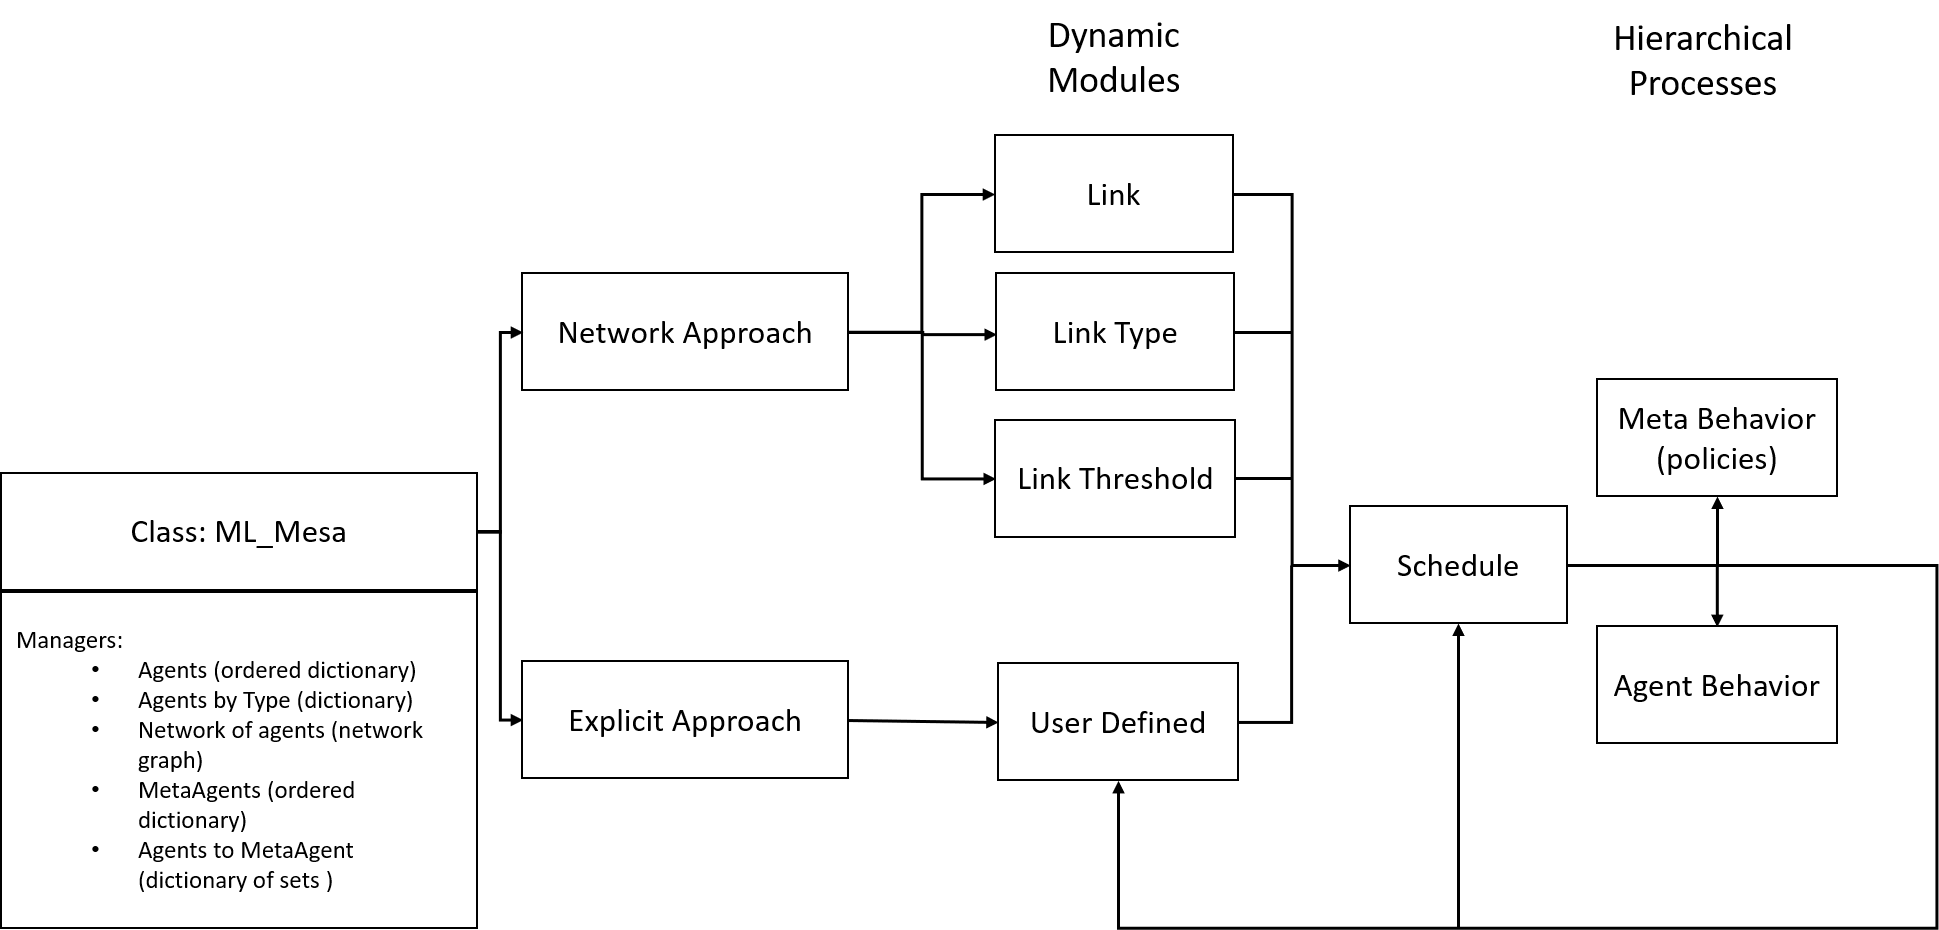
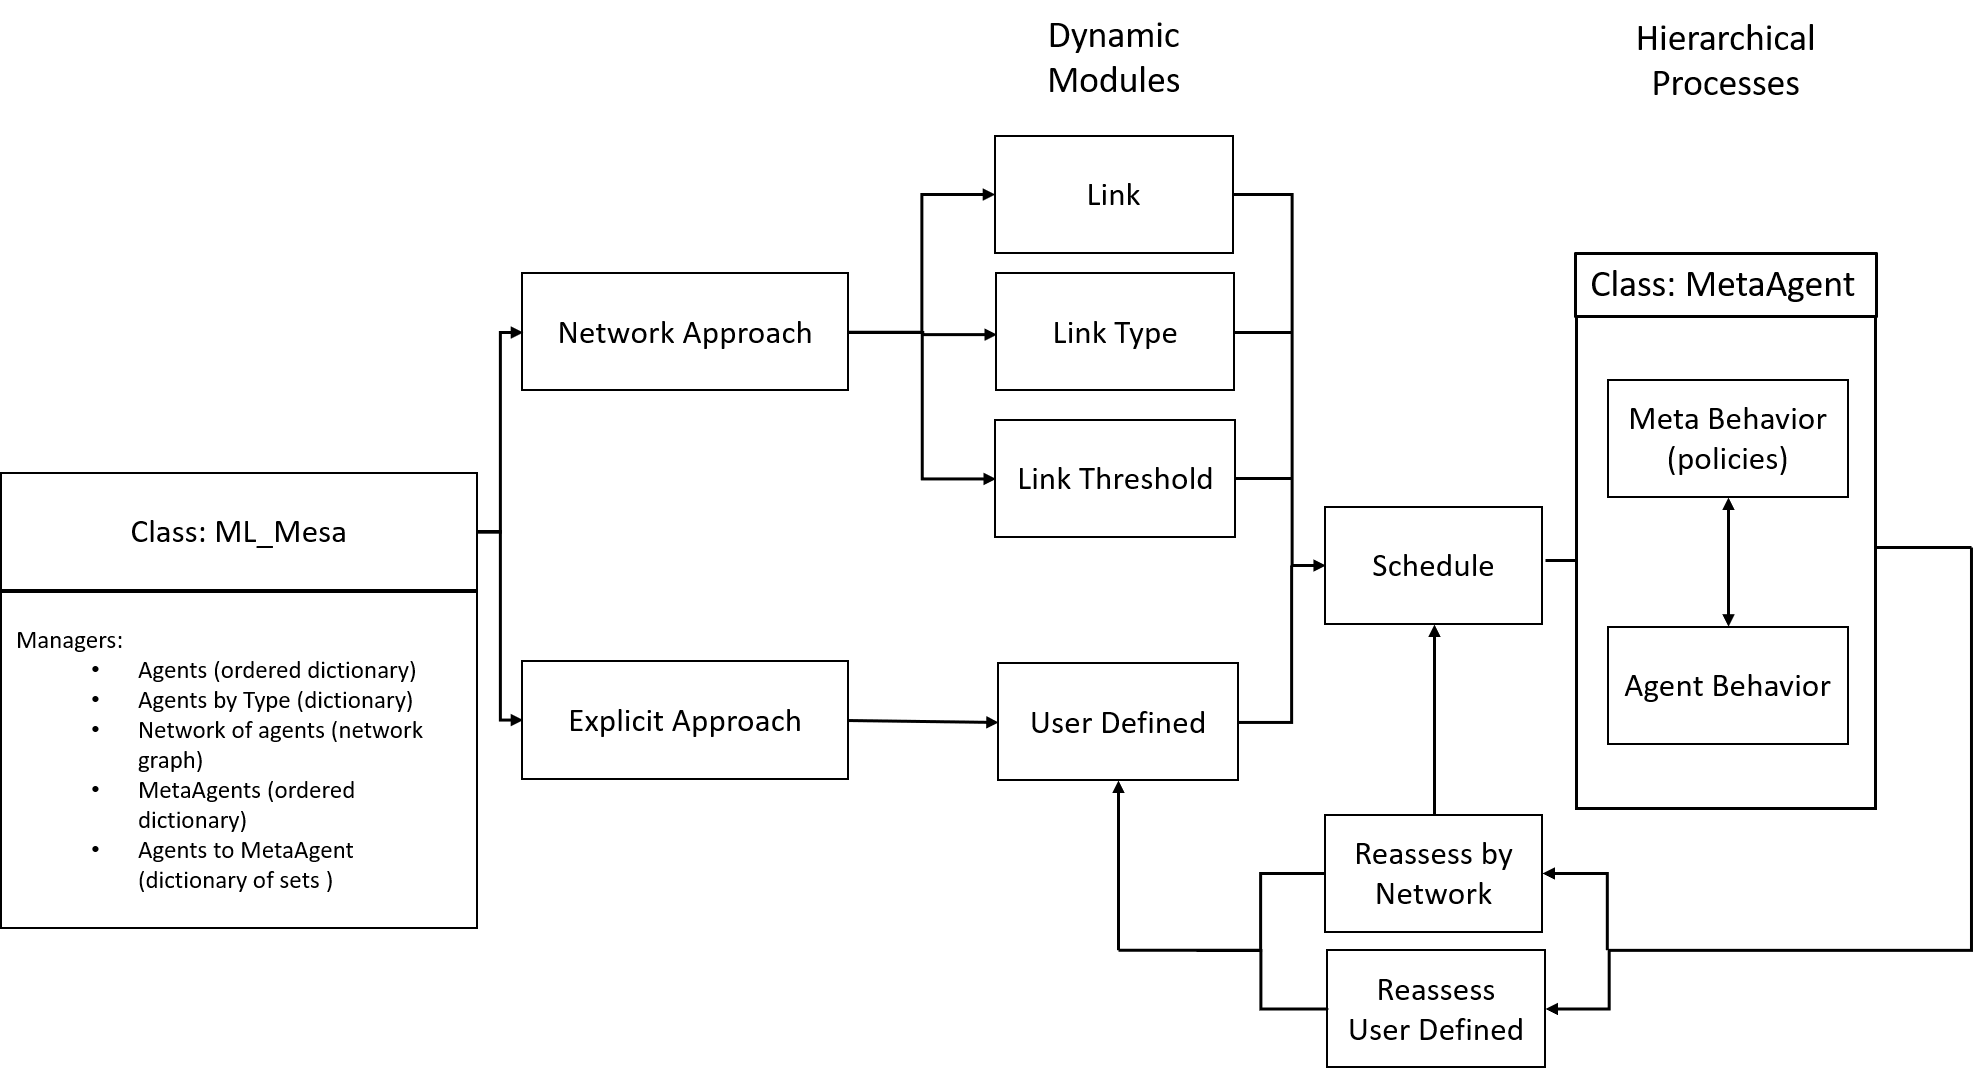
readme update

diff --git a/README.md b/README.md
@@ -1,57 +1,105 @@
 # Multi-Level Mesa
 
-Multi-Level (ML) Mesa is a library which supports Python's Agent Based Modelling Library Mesa. ML Mesa's views complex systems as adaptive networks and uses a network graph structure to allow dynamic management of agent modules (groups) and model schedules.
+Multi-Level (ML) Mesa is a library which supports Python's Agent Based Modeling Library Mesa. ML Mesa's views complex systems as adaptive networks and uses a network graph structure to allow dynamic management of agent modules (groups) and model schedules.
 
-ML Mesa has three main components. First, a collection of managers which tracks the agents, the modules of agents (meta-agents), the network of agents, and agents who belong to an existing meta-agent, and the schedule. Second, a series of functions which provides the user different options to form meta-agents or dissolve them. Third, a meta-agent class which allows for the inclusion of different meta-agent policies, manages the behavior and status of the meta_agent, and implcitily produces hierarchies within the complex system. (Figure 1)
+ML Mesa has three main components. First, a collection of managers which tracks the agents, the modules of agents (meta-agents), the network of agents, and agents who belong to an existing meta-agent, and the schedule. Second, a series of functions which provides the user different options to form meta-agents or dissolve them. Third, a meta-agent class which allows for the inclusion of different meta-agent policies, manages the behavior and status of the meta_agent, and implicitly produces hierarchies within the complex system. (Figure 1)
 
-!(ML Mesa Schematic)[https://github.com/tpike3/ml_mesa/blob/master/ml_mesa/picture/ML-Mesa%20Schematic.png]
+![ML Mesa Schematic](https://github.com/tpike3/ml_mesa/blob/master/ml_mesa/picture/ML-Mesa%20Schematic.png)
 **Figure 1**
-
-### Creating an ML Mesa Instance and the ML Mesa Managers
-
-Creating an instance of ML Mesa requires one parameter, and initiates one attribute and six managers. The one parameter is min_for_meta, which tells ML_Mesa the minimum number of agents which must be in a meta-agent. The min_for_meta parameter has a default setting of 2. The one attribute of ML Mesa is id_counter, which allows for unique_ids to be generated for meta-agents if the user does not supply any. The six managers are (1) ML_Mesa.\_agents which is an ordered dictionary (a hashtable consisting of a key:value pair) that holds every agent added to the instance. This manager is critical to ensure the most granualar possible of agents. (2) ML_Mesa.net is a instance of a NewtorkX graph. This feature provides the critical strcuture for tracking and managing agent and metaagents. (3) ML_Mesa.agents_by_type uses a dictionary of dictionaries to also track agents by type. This feature allows for faster reference of specific types of agents when manipulating meta-agents or schedules. (4) ML_Mesa.schedule replaces the typical Mesa schedule and is an ordered dictionary which manages the agents and when they execute a step function. (5) ML_Mesa.metas is an ordered dictionary and tracks the meta-agents within the model performing the same function of tracking meta-agents as the agents ordered dictionary. (6) ML_Mesa.reverse_meta is a dictionary of sets. The key is agent identification and the set is meta-agents to which the agent belongs. This structre is necessary to ensure duplicate meta-agents are not created or that an agent should be added to an exisitng meta-agent instead of creating a new one. The use of sets also helps expedite computation by using set operations to evaluate if a meta-agent agent should be formed or agents added to an existing meta-agent. 
-
-### The ML Mesa Functions
-
-As shown in figure 1, ML Mesa has two approaches for producing a multi-level ABM, an explcit approach and a network approach. Underneath these two approaches, ML Mesa turns the desired agents into a bilateral link list which form the meta-agents. Each input of agents if transformed into a network edge which forms the meta_agent or adds agents to the meta-agent. The bilateral link list prevents each meta-agent from being fully connected so a diversity network strcutures can exist both within the whole model and within the meta-agents. 
-
-The explicit approach takes a user defined process which generates a list of agents. As not every network is a fully connected network the user defined function looks at the list from a single agent perspective. The user identifies an agent or group of agents (the default is all agents in the ML_Mesa.\_agents dictionary) and then stipulates an evaluation process. From this process, a list of agents who meet the criteria is generated, which ML Mesa then links to the initial agent. As dictionaries are typically unordered and cannot be manipulated during iteration a *yield* versus the more common *return* function is necessary to pass the list of agents to the function. The function then creates a bilateral link list which in turn forms a meta-agent. 
-
-The network approach uses the network graph    
-
-## Uses
-
- 
 
 ## Requirements
 
- 
+ML Mesa requires
+
+    Mesa>=0.8.4
+    NetworkX>=2.2  
 
 ## Installation 
 
-## Implementation
+    pip install ml_mesa
 
- 
+### Creating an ML Mesa Instance and the ML Mesa Managers
 
-## Required Parameters 
+Creating an instance of ML Mesa requires no parameters, and initiates one attribute and six managers. The class has one keyword parameter, ML_Mesa.min_for_meta, which tells ML_Mesa the minimum number of agents which must be in a meta-agent. The min_for_meta parameter has a default setting of 2. The one attribute of ML Mesa is id_counter, which allows for unique_ids to be generated for meta-agents. The six managers are:
+1. ML_Mesa.\_agents which is an ordered dictionary (a hash-table consisting of a key:value pair) that holds every agent added to the instance. This manager is critical to maintain the most granular dictionary possible of all agents.
+2. ML_Mesa.net is a instance of a NewtorkX graph. This feature provides the critical structure for tracking and managing agent and meta-agents.
+3. ML_Mesa.agents_by_type uses a dictionary of dictionaries to also track agents by type. This feature allows for faster reference of specific types of agents when manipulating meta-agents or schedules. 
+4. ML_Mesa.schedule replaces the typical Mesa schedule and is an ordered dictionary which manages the agents and when they execute a step function. 
+5. ML_Mesa.metas is an ordered dictionary and tracks the meta-agents within the model performing the same function of tracking meta-agents as the agents ordered dictionary. 
+6. ML_Mesa.reverse_meta is a dictionary of sets. The key is agent identification and the set is meta-agents to which the agent belongs. This structure is necessary to ensure duplicate meta-agents are not created or that an agent should be added to an existing meta-agent instead of creating a new one. The use of sets also helps expedite computation by using set operations to evaluate if a meta-agent should be formed or agents added to an existing meta-agent. 
+
+### The ML Mesa Functions
+
+As shown in figure 1, ML Mesa has two primary approaches for facilitating a multi-level ABM, an explicit approach and a network approach. Underneath these two approaches, ML Mesa turns the desired agents into a bilateral link list which form the meta-agents. Each input of agents is transformed into a network edge which forms the meta_agent or adds agents to an existing meta-agent. The use of links is also used to disband meta-agents or remove agents from the meta-agent. These functions then create a more dynamic schedule based on the criteria of the meta-agent and its associated policies. 
+
+#### Forming and Dissolving Meta-Agents
+
+##### User Defined Formation Process ML_Mesa.form_meta
+
+The formation function of the explicit approach is ML_Mesa.form_meta and takes a user defined process which generates a list of agents. The user defined process provides the criteria for ML_Mesa.form_meta to iterate through the list of agents from the first agent in the list's perspective. This approach can be computationally expensive, but is necessary to allow for the accurate recreation of the network. The user identifies an agent or group of agents (the default is all agents in the ML_Mesa.\_agents dictionary) and then stipulates an evaluation process. From this process, a list of agents who meet the criteria is generated, which ML Mesa then links to the initial agent. As dictionaries cannot be manipulated during iteration users must use a *yield* versus the more common *return* function to pass the list of agents to the form_meta function. The function then creates a bilateral link list which in turn forms a meta-agent. 
+
+**User-Defined Formation Function**
+    ```
+    def form_meta(self, process, *args, determine_id = 'default', \
+                  double = False, policy = None,  **kwargs):
+    ```
+
+The ML_Mesa.form_meta function requires one parameter which is the user specified process(es) which determine whether or not an agent should be in a meta-agent with other agents. This passes in the function(s) which determines what agents should be part of a meta_agent. The \*args and \*\*kwargs allows the user to pass in the parameters for these processes. The determine_id arguments ensure each meta-agent gets a unique_id. If default it will simply append a number based on the id_counter attribute to the string 'meta'. For the user to pass in an id he or she must *yield* the id as the first element of a tuple from the user defined process. The double parameter takes a boolean value. If *True* the agent will remain in the schedule as an independent entity, while if *False* the agent is removed. This is to provide users maximum flexibility for agent scheduling and meta-agent processes. The policy parameter passes in the step processes for the meta-agent, which can consist of only internal processes or can consist of meta-agent processes and then execute the individual agent processes.   
+
+##### User Defined Dissolution Process: ML_Mesa.reassess_meta
+
+The dissolution function for the explicit approach (although it can be used interchangeably with the network approach) is ML_Mesa.reassess_meta. This function iterates through each meta-agent and then uses the user defined process to assess on whether or not an agent should still belong to the meta-agent. Similar to the ML_Mesa.form_meta this function requires a *yield* to provide the list of agents which should be removed and then proceeds to remove those agents while updating the appropriate managers. This function also ensures if the meta-agent fails to have a certain number of agents within the meta_agent that the meta-agent will also be removed. This minimum number of agents is the min_for_meta attribute of the ML Mesa instance and has a default setting of two. 
+
+**User-Defined Dissolution Function**
+    ```
+    def reassess_meta(self, process, *args, reintroduce = True, **kwargs):
+    ```
+
+The ML_Mesa.reassess_meta function requires one parameter, which is the process defined by the user for assessing whether or not the agent should remain within the meta_agent. The function also has a reintroduce parameter which takes a boolean value and is default to *True*. This parameter tells the function whether or not to reintroduce the removed agents back into the schedule.  
 
 
-## Default Parameters 
+##### Network Defined Formation: ML_Mesa.net_schedule
 
+The formation function of the network approach is ML_Mesa.net_schedule and uses an undirected NetworkX graph object to assess what agents should form meta-agents. With an undirected graph and as indicated in figure one, there are three possibilities for assessing whether or not linked agents should be in the same meta-agents. First, simply by whether or not a link exists between the agents. Second, if a specific type of link exists. Third, if a link exists which has reached a certain value. For example in the SugarScape verification and validation discussed in the next section, one version forms a meta_agent if an agent and landscape cell are linked, in another version, the agents form a meta-agent if they have 10 or more trades between them. Although, NetworkX also offers the possibility of directed graphs and multi-graphs these options were not used for simplicity sake and because the dynamics of ABMs can account for the main aspects of these features. As NetworkX uses a dictionary structure to capture nodes and links, a multi-graph can be easily simulated by adding more link types along the edge, so a link may have the dictionary keys {family, tribe, job...} allowing for a link with multiple types similar to a multi-graph. The directed graph dynamic can also by achieved through agent interactions as the link attributes can dictate the direction of resources based on agent attributes. The one cost is users can not use the network evaluation functions in NetowrkX associated with multi-graphs and directed graphs. Using an undirected graph provides a leaner, more easily understood approach without loss of network dynamics. 
 
+**Network Formation Function**
+    ``` 
+    def net_schedule(self, link_type = None, link_value = None, double = False, policy = None):
+    ```
 
-## Example Implementation
+The ML_Mesa.net_schedule function requires no parameters and will default to simply if a link exists or not between agents. As the meta-agent is formed purely based on the links between agents, no \*args or \*\*kwargs arguments are required. As the net schedule has no process passed in the id of the meta_agents uses the default "meta" plus a number from the id-counter attribute. If users decided they would like to pass in processes to provide a unique id for meta-agents this could be added in future versions, but was not included in this version as it did not add anything substantive to the ML Mesa dynamics. The link_type function allows the user to pass in what link key value should link agents together. The link_type can then be further specified with the link_value criteria. The link_value can either be a string to further classify the type of link, for example *family: friendly* or *family: angry_teenager* or it can be a value such as will be seen in the SugarScape model *trades: 4* (number of trade between agents). As net_schedule is an additive process the value is assumed to be a threshold of greater than or equal to a value. The network can then be updated and evaluated through the other processes in the ABM using NeworkX object manipulation functions. For convenience, ML_Mesa also has ML_Mesa.add_links and ML_Mesa.remove_links functions. These functions take a list of agents, combines them in to a list of fully connected tuples and then adds the edges to graph.    
 
+#### Network Defined Dissolution: ML_Mesa.reassess_net_schedule
 
+The ML_Mesa.reassess_net_schedule uses the same taxonomy of options as ML_Mesa.net_schedule. First, an agent can be removed based on the presence of a link, the presence of a specific link type and finally the presence of a specific link value. The function will also check to ensure the meta-agent still has the minimum number of agents to remain a meta-agent which is defaulted to two with ML_Mesa.min_for_meta attribute. 
 
-## Detailed Description of Module
+**Network Dissolution Function**
+    ```
+    def reassess_net_schedule(self, link_type = None, link_value = None)
+    ```
 
+The dissolution function similar to the formation function requires no parameters and will default to determining if there is a link or not. The user can also specify link types which cause agents to be removed or link values, which can again be either strings or numbers. However, as this function is not additive, if the value is a number it must be less than or equal to the given value. 
 
+#### Schedule Functions
 
+As ML_Mesa replaces the normal schedule function of Mesa, it must also have the basic scheduling functions. These are the add and remove functions, which remain at the individual agent level but have a higher degree of complexity as agents must be kept in multiple managers to ensure agents they are being properly 'stepped' in the schedule or removed if the agent 'dies'. ML_ Mesa also replaces Mesa's step function. Its primary schedule is random activation, but this can be turned off for an ordered activation and a staged activation can be executed through the agent_type manager. A future extension of ML_Mesa would be to store different schedules based on different network configurations. This would save computation time so specific agent schedules would be created less often. For example, if one was recreating daily life of a population and the night and morning hours used one configuration, while the daytime hours would use a different configuration, each calling different behavior routines for the agents. 
 
-            
-## Weaknesses and Choices
+**Schedule Functions**
+    ```
+    def add(self, agent, schedule = True, net = True)
 
+    def remove(self, agent):
+
+    def step(self, shuffled = True, by_type = False, const_update = False)
+    ```
+
+Similar to Mesa, the add function requires an agent object. It also has two keyword parameters which take boolean parameters each with a default value of *True*. Keyword parameter *schedule* adds the agent to the schedule. This is an option in case the user begins with a complex network and the agent is already part of a meta-agent. The *net* parameter similarly adds the agent to the network. This is done in case the user has agent he or she does not want to be part of the network. For instance, in a SugarScape model, the grid cells may not need to be a part of the network as what is of concern is the agents network. The remove function requires an agent object. If invoked this will remove the agent from all managers as applicable. The step function works in a similar way to the Mesa step function, where it iterates through each agent in schedule and executes their step function. Random activation is the default as identified by the keyword parameter *shuffled.* If shuffled is false it will follow the order in the ordered dictionary. The keyword parameter *by_type* is set to False but can take a list of agent types to simulate staged activation. Constant update provides the ability to have a group of agent types be activated after the more dynamic schedule. For example, an environmental variable which changes at a steady rate for each time step, such as sugar or spice growth in the SugarScape model. 
+
+### The MetaAgent Class
+
+The MetaAgent class introduces hierarchy into the ABM. The MetaAgent class performs similar functions to ML Mesa or Mesa's time module. MetaAgents has three managers, which includes a dictionary of the agents which belong to the MetaAgent, a dictionary of dictionaries with the agents in the meta-agent by type and a NetworkX graph object of the sub_agents. The MetaAgent then has three attributes to make it easy for users to employ the MetaAgent. The first attribute is MetAgent.active which is a boolean value to help users activate and deactivate MetaAgents as necessary. The next two attributes are MetaAgent.type and MetaAgent.__str__ which both equal "meta" and allow the user greater ease in identifying and performing functions on the meta-agents. The final attribute of the MetaAgent class is its policy object, this object is passed in by the user and provides the meta-agents behavior. The behavior of the meta-agents and its internal agents is done with two step functions the MetaAgent.meta_step which calls the policy function and the individual agent step functions, again using a random order, but with the same options of the ML_Mesa.step function to dictate schedule ordering processes.   
+
+The interaction of the schedule, formation and dissolution of modules of agents, and the ability for hierarchies to exist within allows ML Mesa to introduce modules and hierarchies of agents and a key dynamic of complex systems. The functions can be employed as part of the normal step function, at specific events or at specific intervals. By using a network data structure as the main management structure, ML Mesa is able to integrate the interdependencies and changing dynamics of those interdependencies into ABM management structure providing a new dynamic which goes beyond the current multi-level approaches.     
 
 ## Happy Modeling!
 
